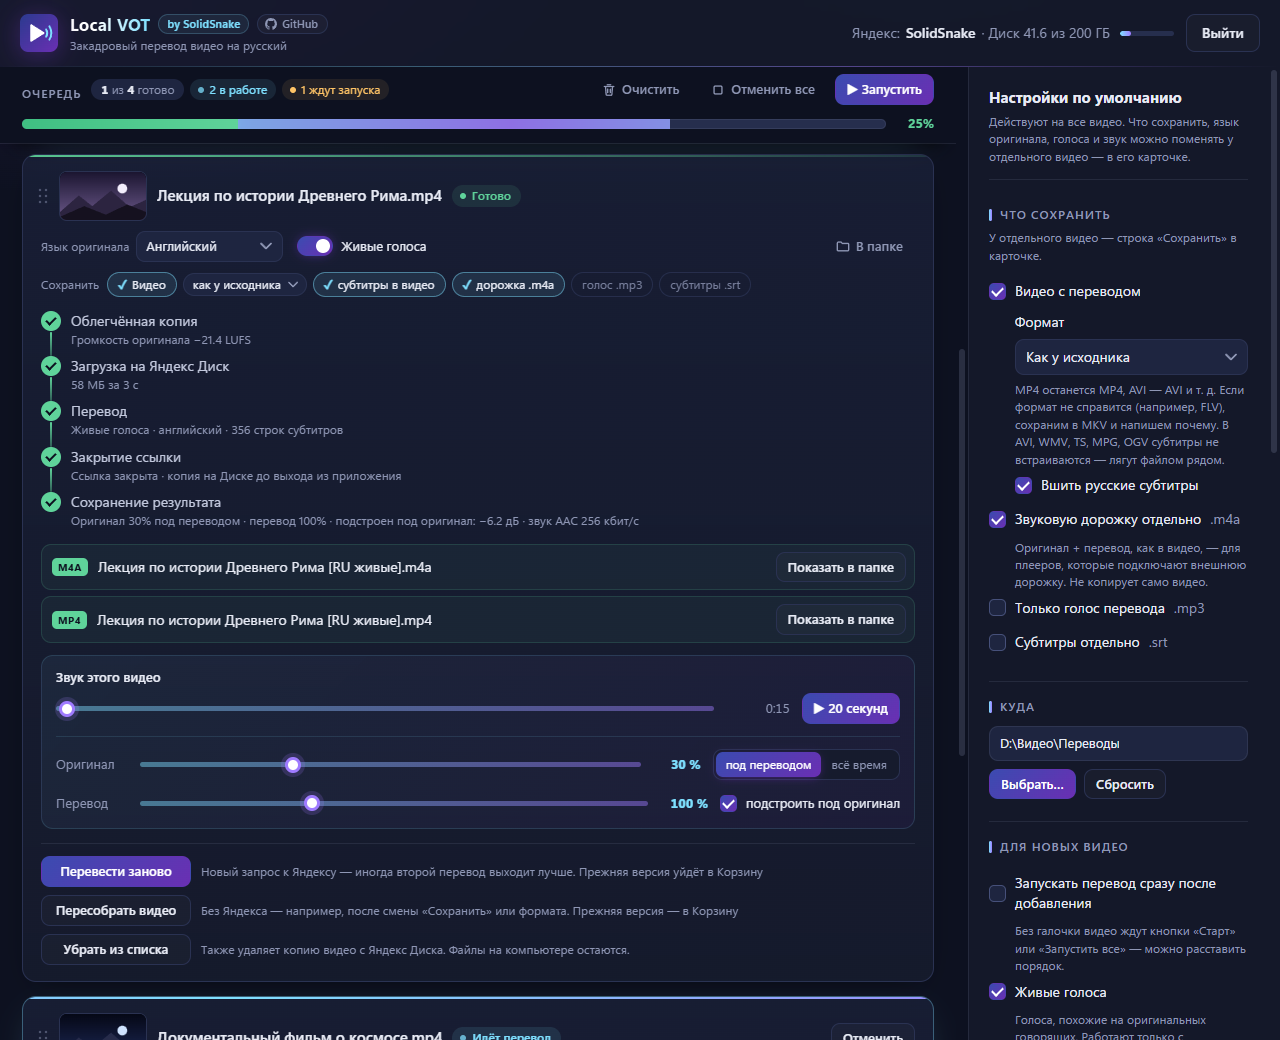
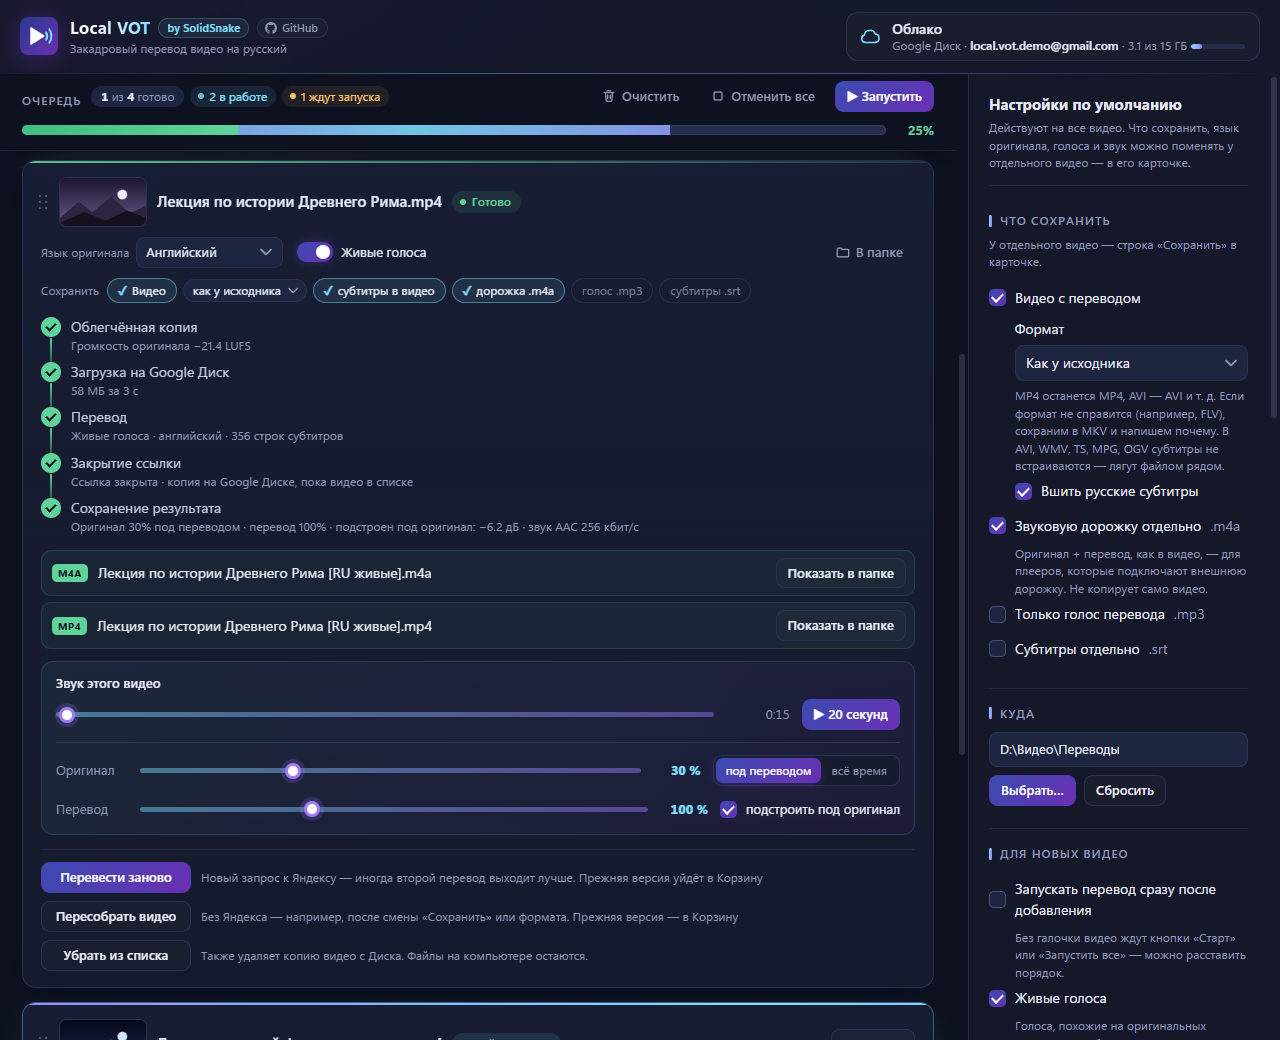
README screenshots for 0.5.0 (Cloud window); roomier account line

diff --git a/src/renderer/styles.css b/src/renderer/styles.css
@@ -96,7 +96,7 @@ h2 {
 .cloud-btn {
   display: flex; align-items: center; gap: 10px; padding: 7px 14px 7px 11px; border-radius: 12px; cursor: pointer;
   border: 1px solid var(--border); background: rgba(255, 255, 255, .02); color: var(--text); font: inherit; text-align: left;
-  min-width: 0; max-width: 380px;
+  min-width: 0; max-width: 480px;
 }
 .cloud-btn:hover { background: var(--surface-2); border-color: #3a4470; }
 .cloud-btn:focus-visible { outline: 2px solid var(--accent); outline-offset: 2px; }
@@ -132,7 +132,8 @@ h2 {
 .cloud-opt ul { margin: 0; padding-left: 18px; color: var(--muted); font-size: 12.5px; display: grid; gap: 5px; }
 .cloud-acc { margin-top: auto; padding-top: 10px; border-top: 1px solid var(--border-soft); display: flex; align-items: center;
   justify-content: space-between; gap: 10px; }
-.cloud-acc-text { font-size: 12.5px; color: var(--muted); display: flex; align-items: center; gap: 6px; flex-wrap: wrap; min-width: 0; }
+.cloud-acc-text { font-size: 12.5px; color: var(--muted); min-width: 0; line-height: 1.6; } /* строкой: длинная почта переносится по словам, а не блоками */
+.cloud-acc-text .disk-meter { vertical-align: middle; }
 .cloud-acc-text b { color: var(--text); font-weight: 600; overflow-wrap: anywhere; }
 .cloud-acc .btn { white-space: nowrap; flex: none; }
 .cloud-card .check { margin-top: 14px; }

diff --git a/README.md b/README.md
@@ -116,6 +116,11 @@
    Google Диск. Нажмите **«Войти через Яндекс»** (откройте страницу Яндекса, введите код из программы и разрешите
    доступ) или **«Войти через Google»** (в браузере откроется страница Google). С Google Диском для живых голосов
    войдите и в Яндекс — там же.
+
+   <p align="center">
+     <img src="docs/screenshot-cloud.png" alt="Окно «Облако»: Яндекс Диск или Google Диск, вход и выход">
+   </p>
+
 2. Перетащите видео (или целую папку) в окно программы.
 3. Проверьте в карточке видео **язык оригинала** (на каком языке говорят в видео), голоса и что сохранить,
    расставьте порядок и нажмите **«Запустить все»**. Значения по умолчанию — в панели справа «Настройки по

diff --git a/README.en.md b/README.en.md
@@ -118,6 +118,11 @@ Settings, the Yandex sign-in and the log are kept when updating.
    Google Drive. Press **«Войти через Яндекс»** (Sign in with Yandex — open the Yandex page, enter the code from the
    app and allow access) or **«Войти через Google»** (Sign in with Google — the Google page opens in your browser).
    With Google Drive, also sign in to Yandex there for lively voices.
+
+   <p align="center">
+     <img src="docs/screenshot-cloud.png" alt="The Cloud window: Yandex Disk or Google Drive, sign in and out">
+   </p>
+
 2. Drag videos (or a whole folder) into the app window.
 3. In the video card, check the **original language** (the language spoken in the video), the voices and what
    to save, reorder the queue and press **«Запустить все»** (Start all). Defaults live in the right-hand
